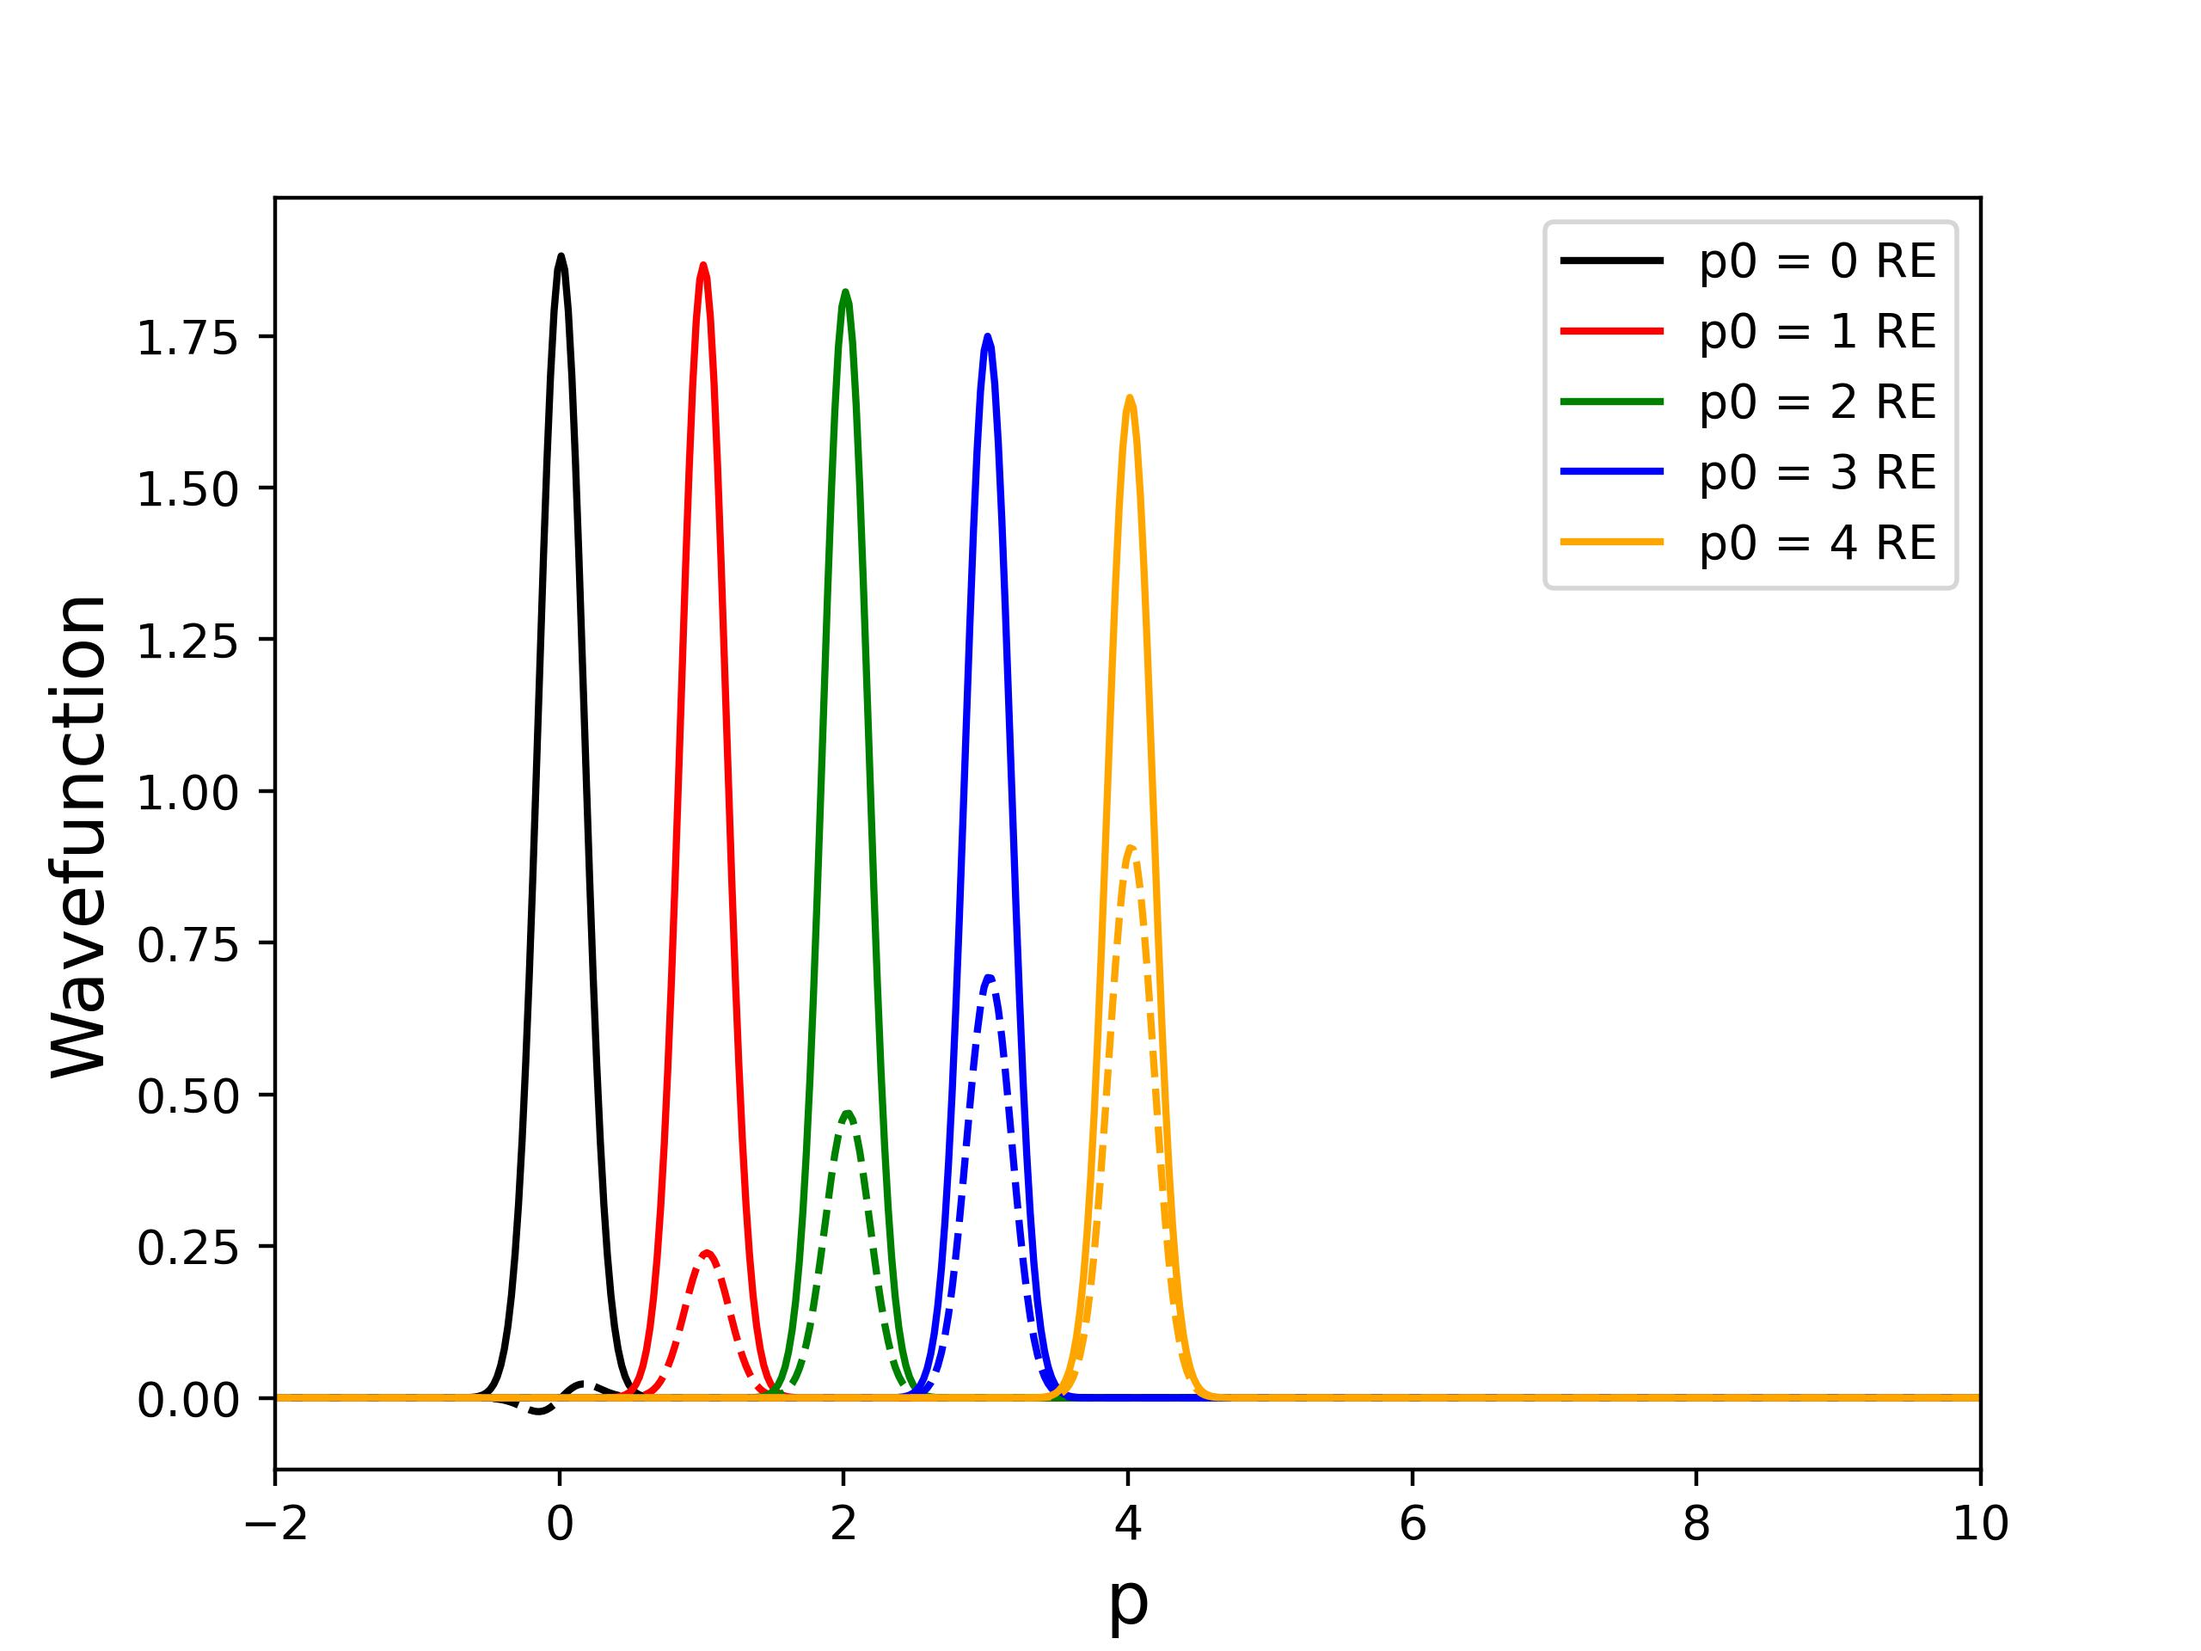
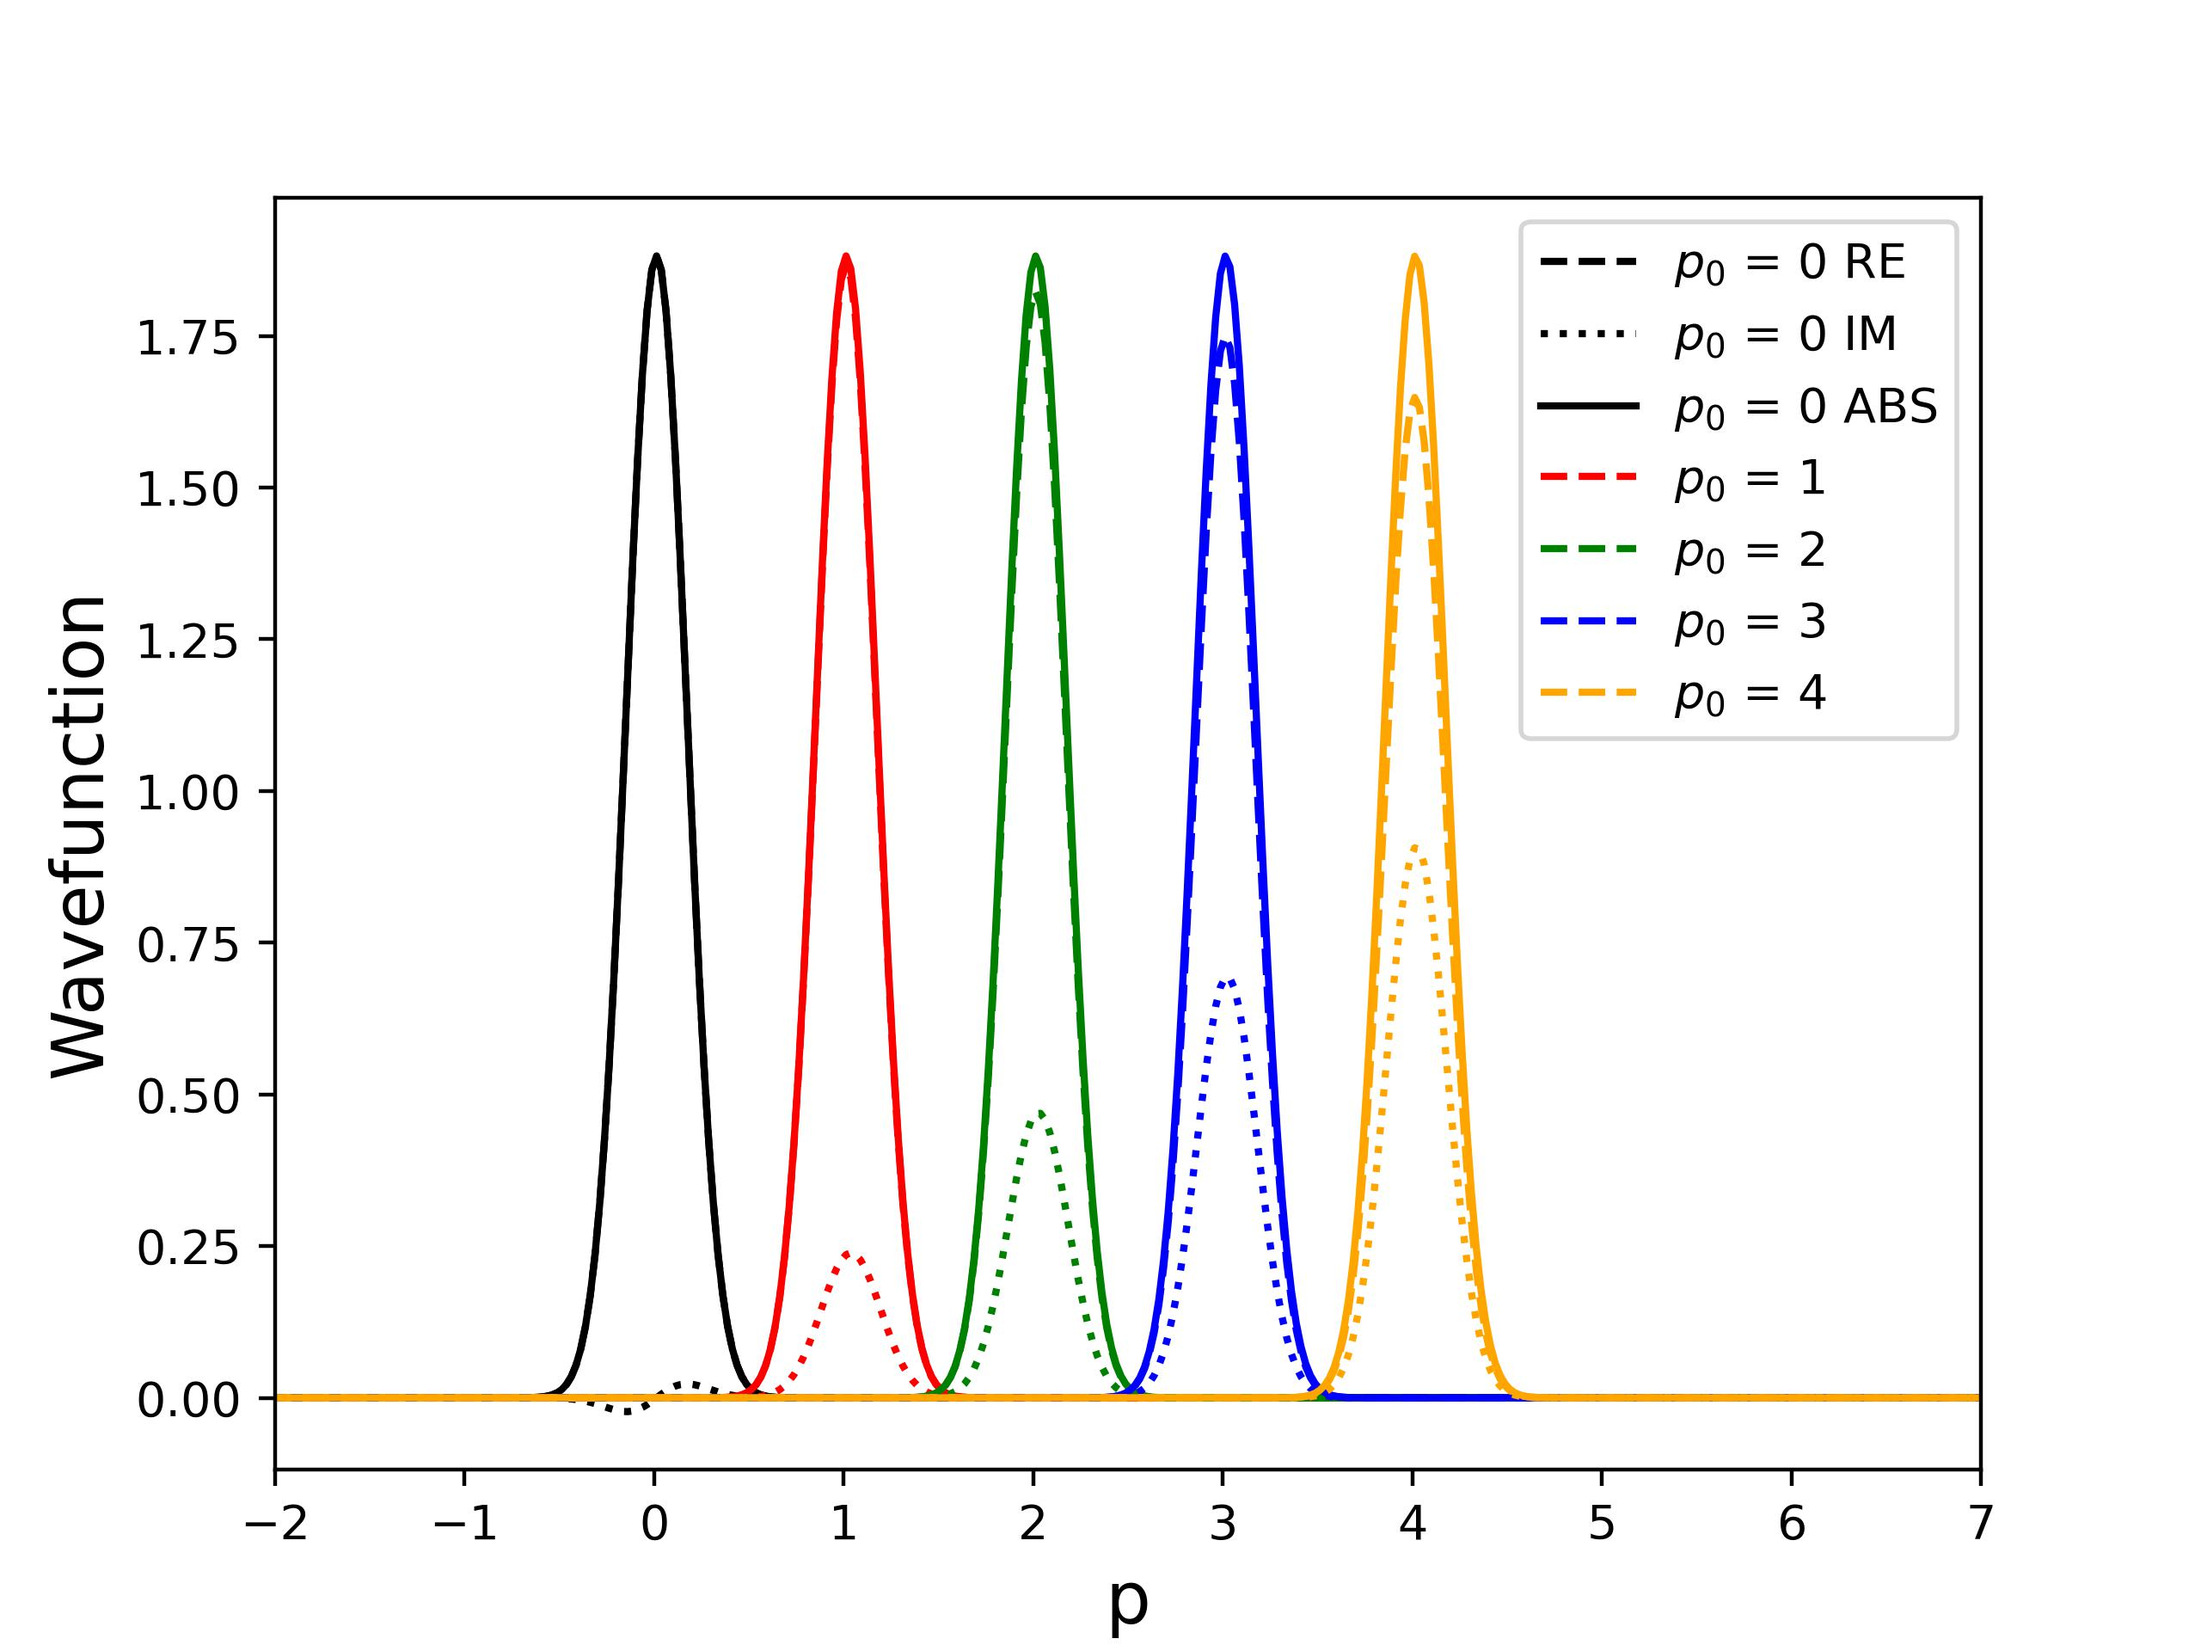
Fixed bug in <p> and improved plotting

diff --git a/homeworks/solutions/Chapter_4/4.1.1_Expectation_Values.py b/homeworks/solutions/Chapter_4/4.1.1_Expectation_Values.py
@@ -1,7 +1,6 @@
 import numpy as np
 from matplotlib import pyplot as plt
 import subprocess as sp
-from scipy.integrate import trapz
 
 DATA_DIR = "4.1.1_PLOTS"
 sp.call(f"mkdir -p {DATA_DIR}", shell=True)
@@ -22,8 +21,14 @@ def plot_f_x(x,f_x):
 
     color_list = ['black','red','green','blue','orange','purple']
     for p0IND,p0 in enumerate( p0_LIST[:2] ):
-        plt.plot( x, f_x[p0IND].real, "-", lw=6, alpha=0.25, c=color_list[p0IND], label=f"p0 = {round(p0,1)} RE" )
-        plt.plot( x, f_x[p0IND].imag, "--", c=color_list[p0IND] )
+        if ( p0IND == 0 ):
+            plt.plot( x, f_x[p0IND].real, "--", c=color_list[p0IND], label=f"p0 = {round(p0,1)} RE" )
+            plt.plot( x, f_x[p0IND].imag, ":", c=color_list[p0IND], label=f"p0 = {round(p0,1)} IM" )
+            plt.plot( x, np.abs(f_x[p0IND]), "-", lw=1, c=color_list[p0IND], label=f"p0 = {round(p0,1)} ABS" )
+        else:
+            plt.plot( x, f_x[p0IND].real, "--", c=color_list[p0IND], label=f"p0 = {round(p0,1)}" )
+            plt.plot( x, f_x[p0IND].imag, ":", c=color_list[p0IND] )
+            plt.plot( x, np.abs(f_x[p0IND]), "-", lw=1, c=color_list[p0IND] )
 
     plt.legend()
     plt.xlim(-5,5)
@@ -72,11 +77,16 @@ def plot_f_p(p,f_p):
 
     color_list = ['black','red','green','blue','orange','purple']
     for p0IND,p0 in enumerate( p0_LIST[:5] ):
-        plt.plot( p, f_p[p0IND].real, "-",  c=color_list[p0IND], label=f"p0 = {round(p0,1)} RE" )
-        plt.plot( p, f_p[p0IND].imag, "--", c=color_list[p0IND] )
-
+        if ( p0IND == 0 ):
+            plt.plot( p, f_p[p0IND].real, "--",    c=color_list[p0IND], label=f"$p_0$ = {round(p0,1)} RE" )
+            plt.plot( p, f_p[p0IND].imag, ":",     c=color_list[p0IND], label=f"$p_0$ = {round(p0,1)} IM" )
+            plt.plot( p, np.abs(f_p[p0IND]), "-",  c=color_list[p0IND], label=f"$p_0$ = {round(p0,1)} ABS" )
+        else:
+            plt.plot( p, f_p[p0IND].real, "--",    c=color_list[p0IND], label=f"$p_0$ = {round(p0,1)}" )
+            plt.plot( p, f_p[p0IND].imag, ":",     c=color_list[p0IND] )
+            plt.plot( p, np.abs(f_p[p0IND]), "-",  c=color_list[p0IND] )
     plt.legend()
-    plt.xlim(-2,10)
+    plt.xlim(p0_LIST[0]-2,p0_LIST[-1]+2)
     plt.xlabel("p",fontsize=15)
     plt.ylabel("Wavefunction",fontsize=15)
     plt.savefig(f"{DATA_DIR}/f_p.jpg",dpi=400)
@@ -105,9 +115,8 @@ def get_observables( x,f_x,p,f_p ):
         
         # Do expectations of momentum
         PROB   = get_PROB( f_p[p0IND] )
-        P_AVE[p0IND]  = np.sum( PROB * p    ) * dx
-        P2_AVE[p0IND] = np.sum( PROB * p**2 ) * dx
-        #P2_AVE[p0IND] = trapz( PROB * p**2 , p )
+        P_AVE[p0IND]  = np.sum( PROB * p    ) * dp
+        P2_AVE[p0IND] = np.sum( PROB * p**2 ) * dp
 
     np.savetxt( f"{DATA_DIR}/EXPECTATION_VALUES.dat", np.c_[ p0_LIST, X_AVE, X2_AVE, P_AVE, P2_AVE ], fmt="%1.4f" )
 
